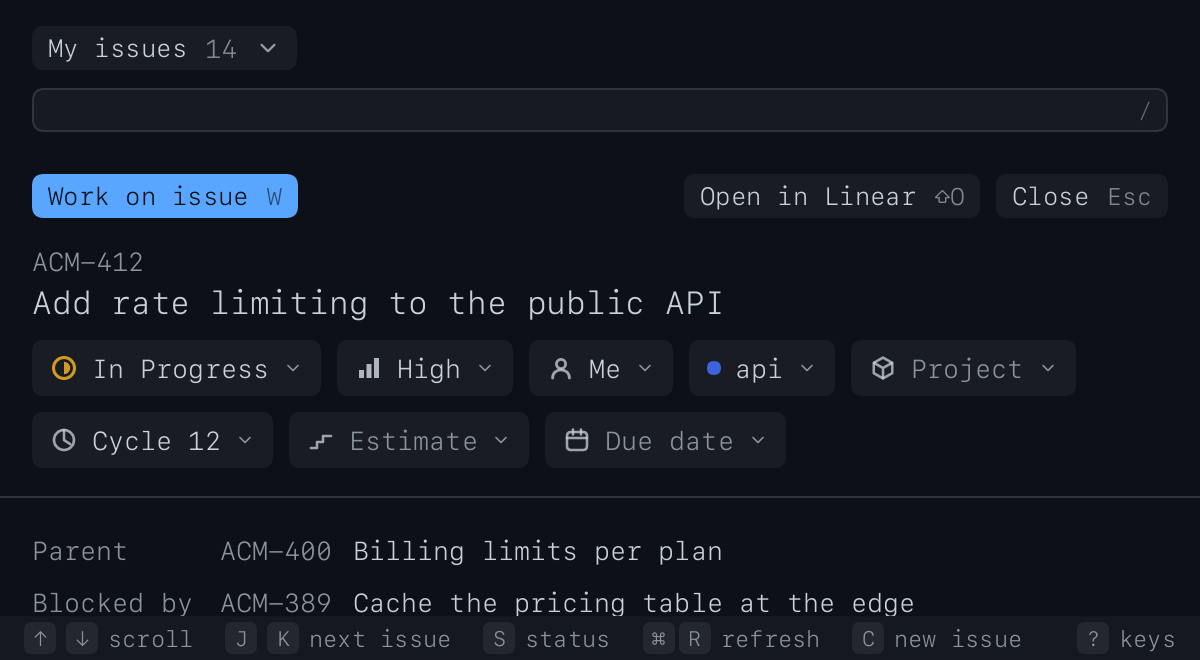
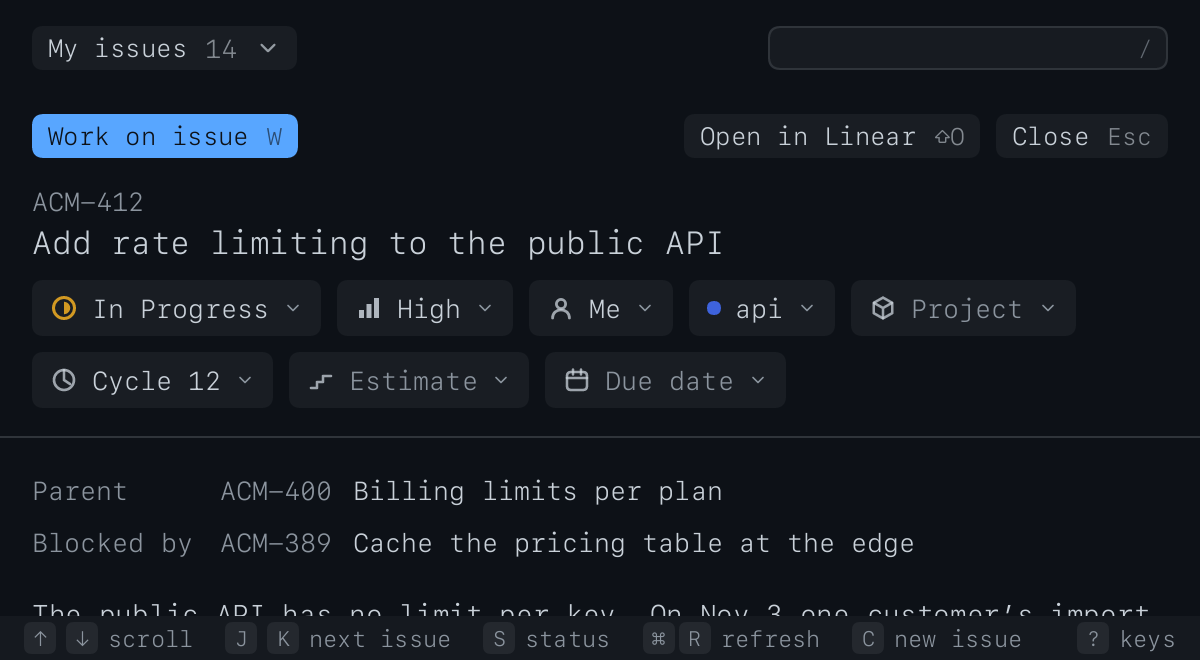
Keep the head one row at 80 columns with the filter at the right, and say the list's arrows and Enter in the line of keys while typing, so that the narrow pane looks as the wide one does

diff --git a/src/program/page_tests.rs b/src/program/page_tests.rs
@@ -1196,15 +1196,85 @@ fn an_80_by_24_pane_keeps_the_list_and_the_filter_inside_it() {
             "{name}: {at:?}"
         );
     }
-    // No room for Refresh and New issue: their buttons are left out, New issue's key is on the line
-    // of keys (the line has no room left for Refresh's, which the card and the palette hold), and
-    // the filter has a row of its own.
+    // No room for Refresh and New issue: their buttons are left out and New issue's key is on the line
+    // of keys (the line has no room left for Refresh's, which the card and the palette hold).
     assert!(page.bounds("refresh").is_none(), "{}", said(&page));
     assert!(page.bounds("new").is_none(), "{}", said(&page));
     assert!(page.says("new issue"), "{}", said(&page));
-    let scope = page.bounds("lists").expect("the button is laid out");
-    let filter = page.bounds("filter-box").expect("the field is laid out");
-    assert!(filter.y >= scope.y + scope.h, "{scope:?} {filter:?}");
+}
+
+/// Whether `inner` is in the line of `outer` from the top to the bottom (the head's row).
+fn in_the_row_of(inner: pencere_view::Rect, outer: pencere_view::Rect) -> bool {
+    inner.y >= outer.y - 6.0 && inner.y + inner.h <= outer.y + outer.h + 6.0
+}
+
+#[test]
+#[ignore = "opens the kit's interpreter: make test-page"]
+fn in_an_80_by_24_pane_the_head_is_one_row_with_the_field_at_the_right_whatever_the_list_is_called()
+{
+    let (_linear, _session, mut page) = open_lists(PANE);
+    let button = page.bounds("lists").expect("the button");
+    let filter = page.bounds("filter-box").expect("the field");
+    // The field is in the button's row, at the right of the pane, of the width a wide pane's smaller
+    // field has.
+    assert!(in_the_row_of(filter, button), "{button:?} {filter:?}");
+    assert!(button.x + button.w < filter.x, "{button:?} {filter:?}");
+    assert!(
+        (PANE.0 - 16.0 - (filter.x + filter.w)).abs() < 0.6,
+        "{filter:?}"
+    );
+    assert!((filter.w - 200.0).abs() < 0.6, "{filter:?}");
+    // A list of a long name: the button is cut, the field stays where it was and as wide.
+    open_card_of_lists(&mut page);
+    page.type_text("mobile crash").expect("the words");
+    page.press("enter").expect("enter");
+    page.wait_for(WITHIN, |page| {
+        page.words_in("lists")
+            .iter()
+            .any(|word| word.starts_with("Mobile crash"))
+    })
+    .unwrap_or_else(|why| panic!("the list is gone to: {why:?}: {}", said(&page)));
+    let long = page.bounds("lists").expect("the button of the long name");
+    let again = page.bounds("filter-box").expect("the field");
+    assert!(
+        (again.x - filter.x).abs() < 0.6 && (again.w - filter.w).abs() < 0.6,
+        "{filter:?} {again:?}"
+    );
+    assert!(in_the_row_of(again, long), "{long:?} {again:?}");
+    assert!(long.x + long.w < again.x, "{long:?} {again:?}");
+    // The row of the filters is under the head's one row, and the list under it: where the field had
+    // a row of its own the list was one row lower.
+    page.press("f").expect("f");
+    page.wait_for(WITHIN, |page| page.bounds("filters:status").is_some())
+        .unwrap_or_else(|why| panic!("the row: {why:?}: {}", said(&page)));
+    let chip = page.bounds("filters:status").expect("a chip");
+    assert!(
+        chip.y >= long.y + long.h && chip.y < long.y + long.h + 24.0,
+        "{long:?} {chip:?}"
+    );
+}
+
+#[test]
+#[ignore = "opens the kit's interpreter: make test-page"]
+fn a_pane_too_narrow_for_the_list_and_the_field_in_one_row_keeps_two() {
+    // 480 points: the longest button and the field do not both fit in a row.
+    let (_linear, _session, mut page) = open_lists((480.0, 330.0));
+    open_card_of_lists(&mut page);
+    page.type_text("mobile crash").expect("the words");
+    page.press("enter").expect("enter");
+    page.wait_for(WITHIN, |page| {
+        page.words_in("lists")
+            .iter()
+            .any(|word| word.starts_with("Mobile crash"))
+    })
+    .unwrap_or_else(|why| panic!("the list is gone to: {why:?}: {}", said(&page)));
+    let button = page.bounds("lists").expect("the button");
+    let filter = page.bounds("filter-box").expect("the field");
+    assert!(filter.y >= button.y + button.h, "{button:?} {filter:?}");
+    assert!(
+        filter.x + filter.w <= 480.0 + 0.5 && button.x + button.w <= 480.0 + 0.5,
+        "{button:?} {filter:?}"
+    );
 }
 
 #[test]
@@ -4537,6 +4607,12 @@ fn a_long_name_of_a_list_is_cut_in_the_button_and_the_rest_of_the_head_stays_whe
             let apart = filter.y >= button.y + button.h || button.x + button.w <= filter.x;
             assert!(apart, "{size:?}: {button:?} {filter:?}");
         }
+        // (A pane's head is one row, the field at its right: the long name does not push it.)
+        let filter = page.bounds("filter-box").expect("the field");
+        assert!(
+            in_the_row_of(filter, button),
+            "{size:?}: {button:?} {filter:?}"
+        );
         for (name, was) in &before {
             if *name != "lists" {
                 head_is_as_it_was(
@@ -6119,6 +6195,20 @@ fn words_that_nothing_held_matches_offer_a_search_of_all_of_linear_and_command_e
     type_in_filter(&mut page, "bug");
     assert!(page.says("search all of Linear"), "{}", said(&page));
     assert!(page.says("clear"), "{}", said(&page));
+    // The arrows and Enter work on the list from the field, and the line says so first, as the
+    // keys of the list are said, then what is the field's.
+    let keys = page.words_in("status");
+    let at = |word: &str| keys.iter().position(|key| key == word);
+    let order = [
+        at("move"),
+        at("open"),
+        at("search all of Linear"),
+        at("clear"),
+    ];
+    assert!(
+        order.iter().all(Option::is_some) && order.windows(2).all(|pair| pair[0] < pair[1]),
+        "move, open, search all of Linear, clear: {keys:?}"
+    );
     page.press("escape").expect("escape clears the words");
     page.wait_for(WITHIN, |page| page.field("filter/field") == Some(""))
         .expect("the words are gone");

diff --git a/CHANGELOG.md b/CHANGELOG.md
@@ -55,7 +55,9 @@
   `2`); the filter says how many it lets through (`4 of 14`) inside itself, and Refresh and New
   issue stay where they are whatever the page is doing: the cursor moving, issues selected, an issue
   open or shut. A page too narrow for Refresh (under 880 points) or for New issue (under 760) leaves
-  their buttons out and the filter takes a row of its own under 640; the keys still work.
+  their buttons out; the keys still work. Down to 540 points the head is one row, the list at the
+  left and the filter at the right, as wide as in a wide pane whatever the list is called (a long name
+  is cut in its button); under 540 the filter takes a row of its own.
 - **The bar of the selection.** With issues selected the line under the page is a bar: how many are
   selected, the values to change in them (Status, Assignee, and in a wider pane Priority, Labels and
   Project), `More` (`Cmd K`) and `Clear` (`Esc`); a press on a value opens its menu for all of them,
